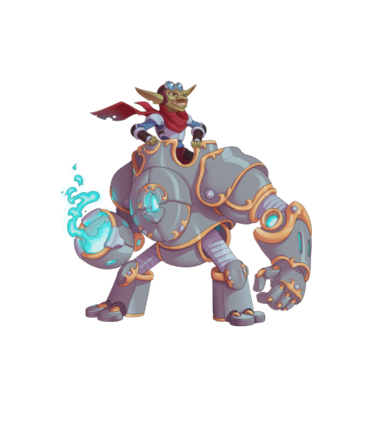
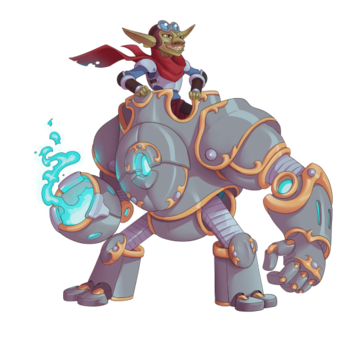
fix: optimize images and fix shadow

diff --git a/src/components/sections/MainInfo/MainInfo.tsx b/src/components/sections/MainInfo/MainInfo.tsx
@@ -28,31 +28,31 @@ const MainInfo = () => {
 
           </div>
         </div>
-        <div className={styles.image + " w-full h-full px-0 md:px-10 xl:px-4 flex mb-6 h-full relative pointer-events-none flex-col"}>
-          <div className="flex relative justify-center self-center items-center h-full w-full">
-            <div className="relative z-1 -mr-20 sm:-mr-36 -mt-4 md:-mt-16 flex justify-center">
+        <div className={styles.image + " w-full h-full px-0 md:px-10 lg:px-4 mb-6 h-full flex justify-center relative pointer-events-none flex-col"}>
+          <div className="flex relative justify-center self-center items-center h-auto w-full mt-0 ">
+            <div className="relative z-1 -mr-20  sm:-mr-24 md:-mr-36 -mt-4 sm:-mt-10 md:-mt-16 flex justify-center">
               <picture  >
-                <source media="(max-width: 768px)" srcSet="/main/character2.png" />
+                <source media="(max-width: 768px)" srcSet="/main/character2M.png" />
                 <source media="(min-width: 769px)" srcSet="/main/character2.png" />
                 <img src="/main/character2.png" className="animate-levitate mx-auto right-0 left-0 my-auto -top-2 bottom-0" />
               </picture>
             </div>
             <div className="relative -mt-2 sm:-mt-20 flex justify-center" style={{ zIndex: 2 }}>
               <picture >
-                <source media="(max-width: 768px)" srcSet="/main/character1.png" />
+                <source media="(max-width: 768px)" srcSet="/main/character1M.png" />
                 <source media="(min-width: 769px)" srcSet="/main/character1.png" />
                 <img src="/main/character1.png"
                   className="animate-levitate3 mx-auto right-0 left-0 my-auto -top-2 sm:-top-4 bottom-0" />
               </picture>
             </div>
-            <div className="relative -ml-20 sm:-ml-28 z-1 -mt-10 md:-mt-20 flex justify-center">
+            <div className="relative -ml-20 sm:-ml-24 md:-ml-28 z-1 -mt-10 sm:-mt-16 md:-mt-20 flex justify-center">
               <picture  >
-                <source media="(max-width: 768px)" srcSet="/main/character3.png" />
+                <source media="(max-width: 768px)" srcSet="/main/character3M.png" />
                 <source media="(min-width: 769px)" srcSet="/main/character3.png" />
                 <img src="/main/character3.png" className="animate-levitate2 mx-auto right-0 left-0 my-auto -top-6 sm:top-0 bottom-0" />
               </picture>
             </div>
-            <img src="/main/shadow.png" className={styles.shadow + " w-full absolute"} />
+            <img src="/main/shadowM.png" className={" w-full absolute -bottom-4"} />
           </div>
         </div>
       </div>
